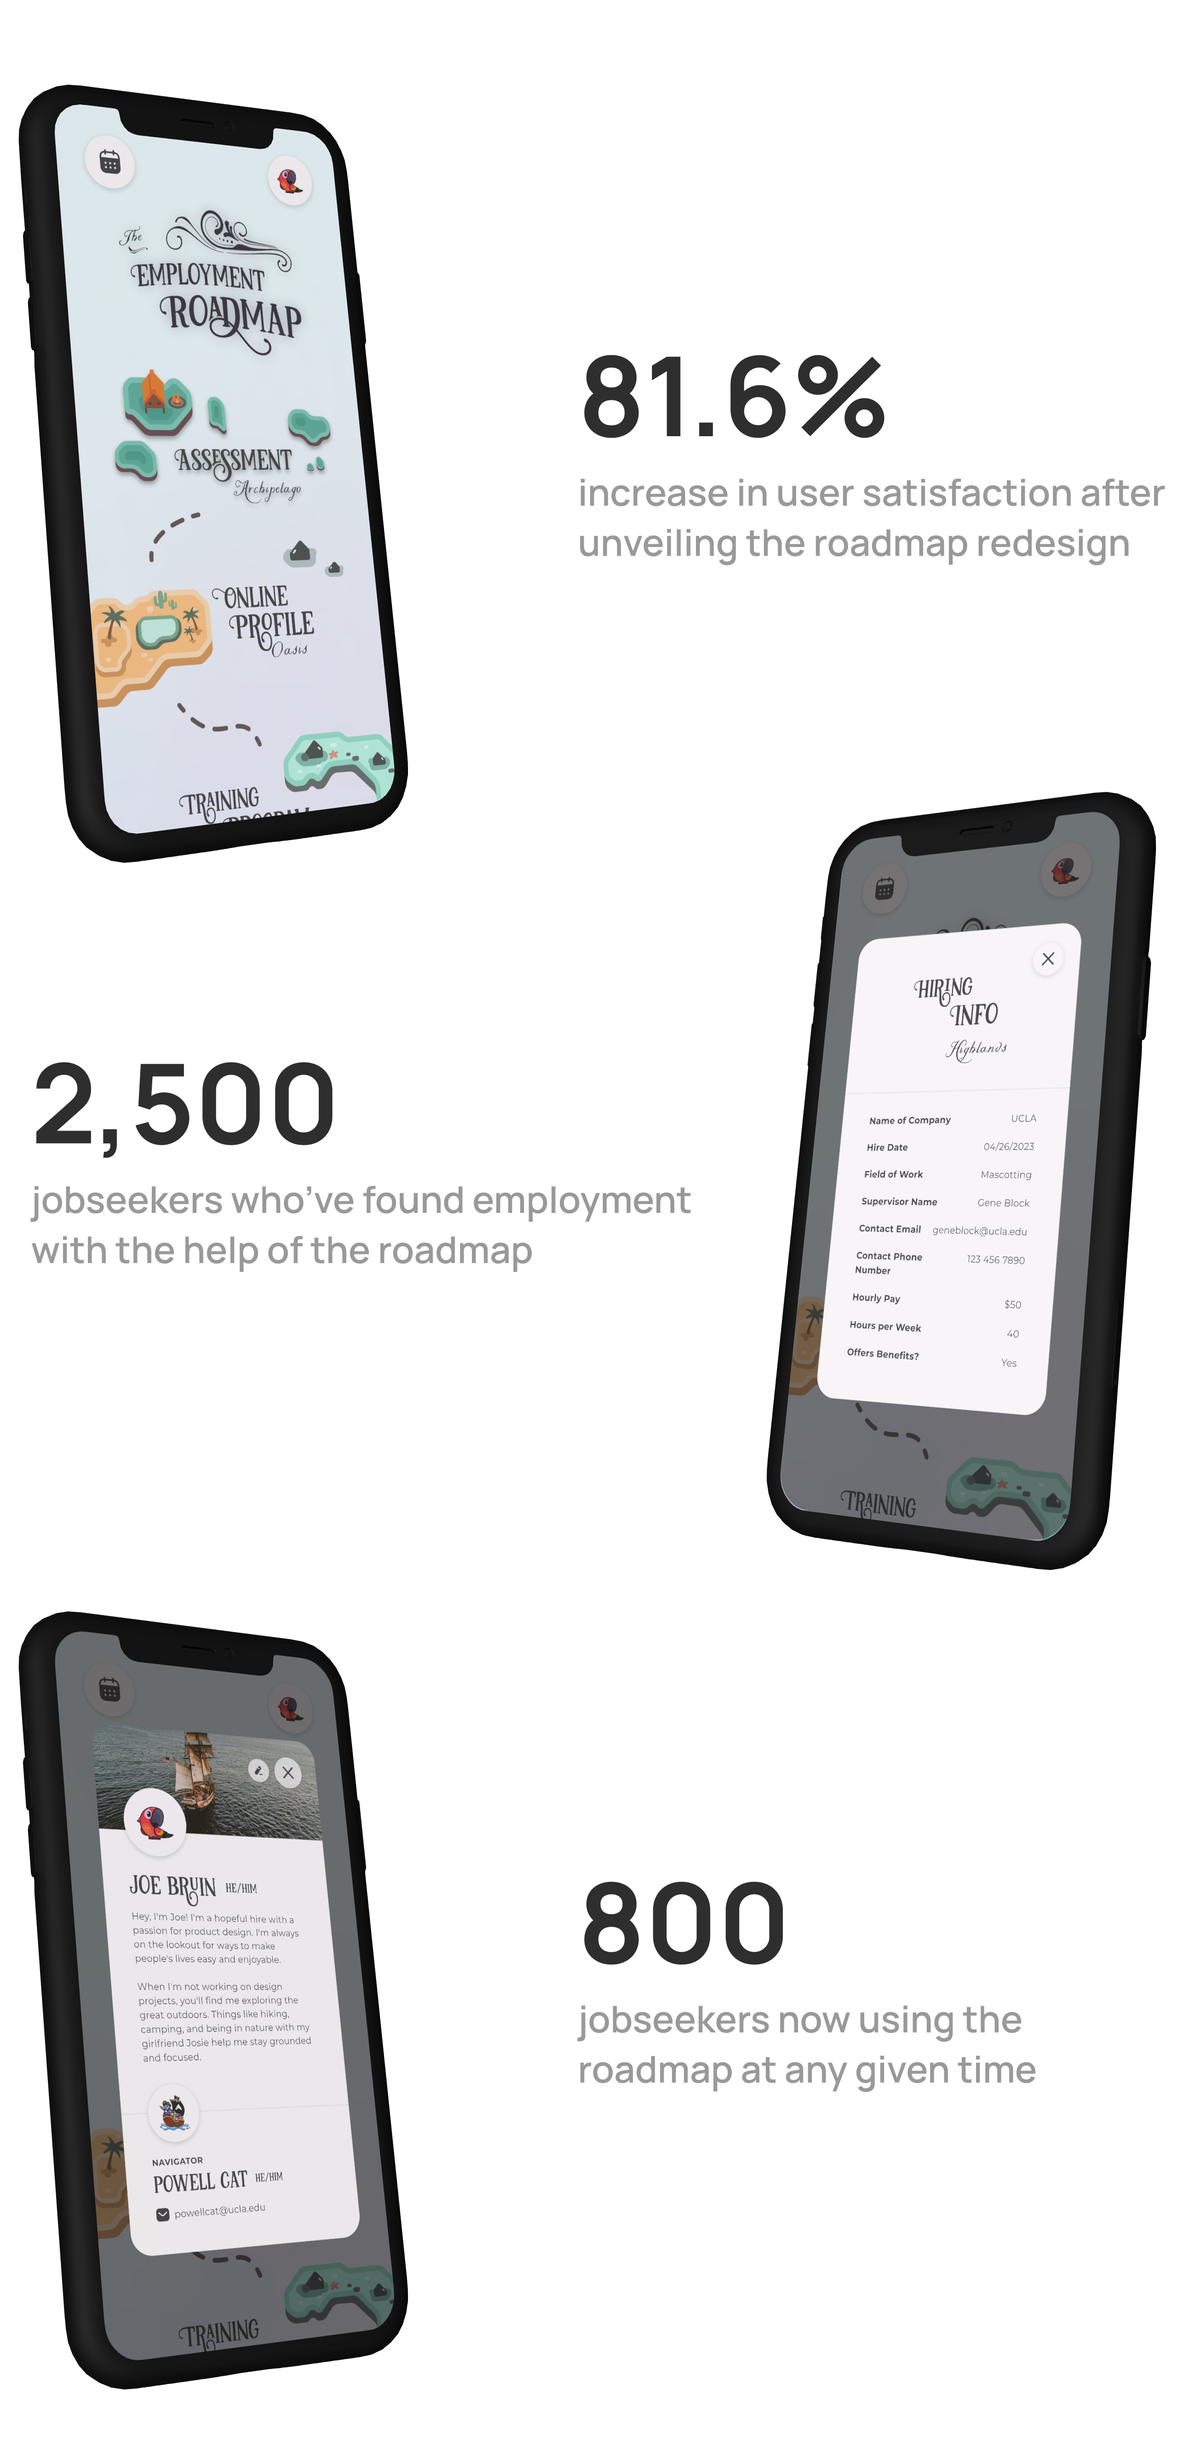
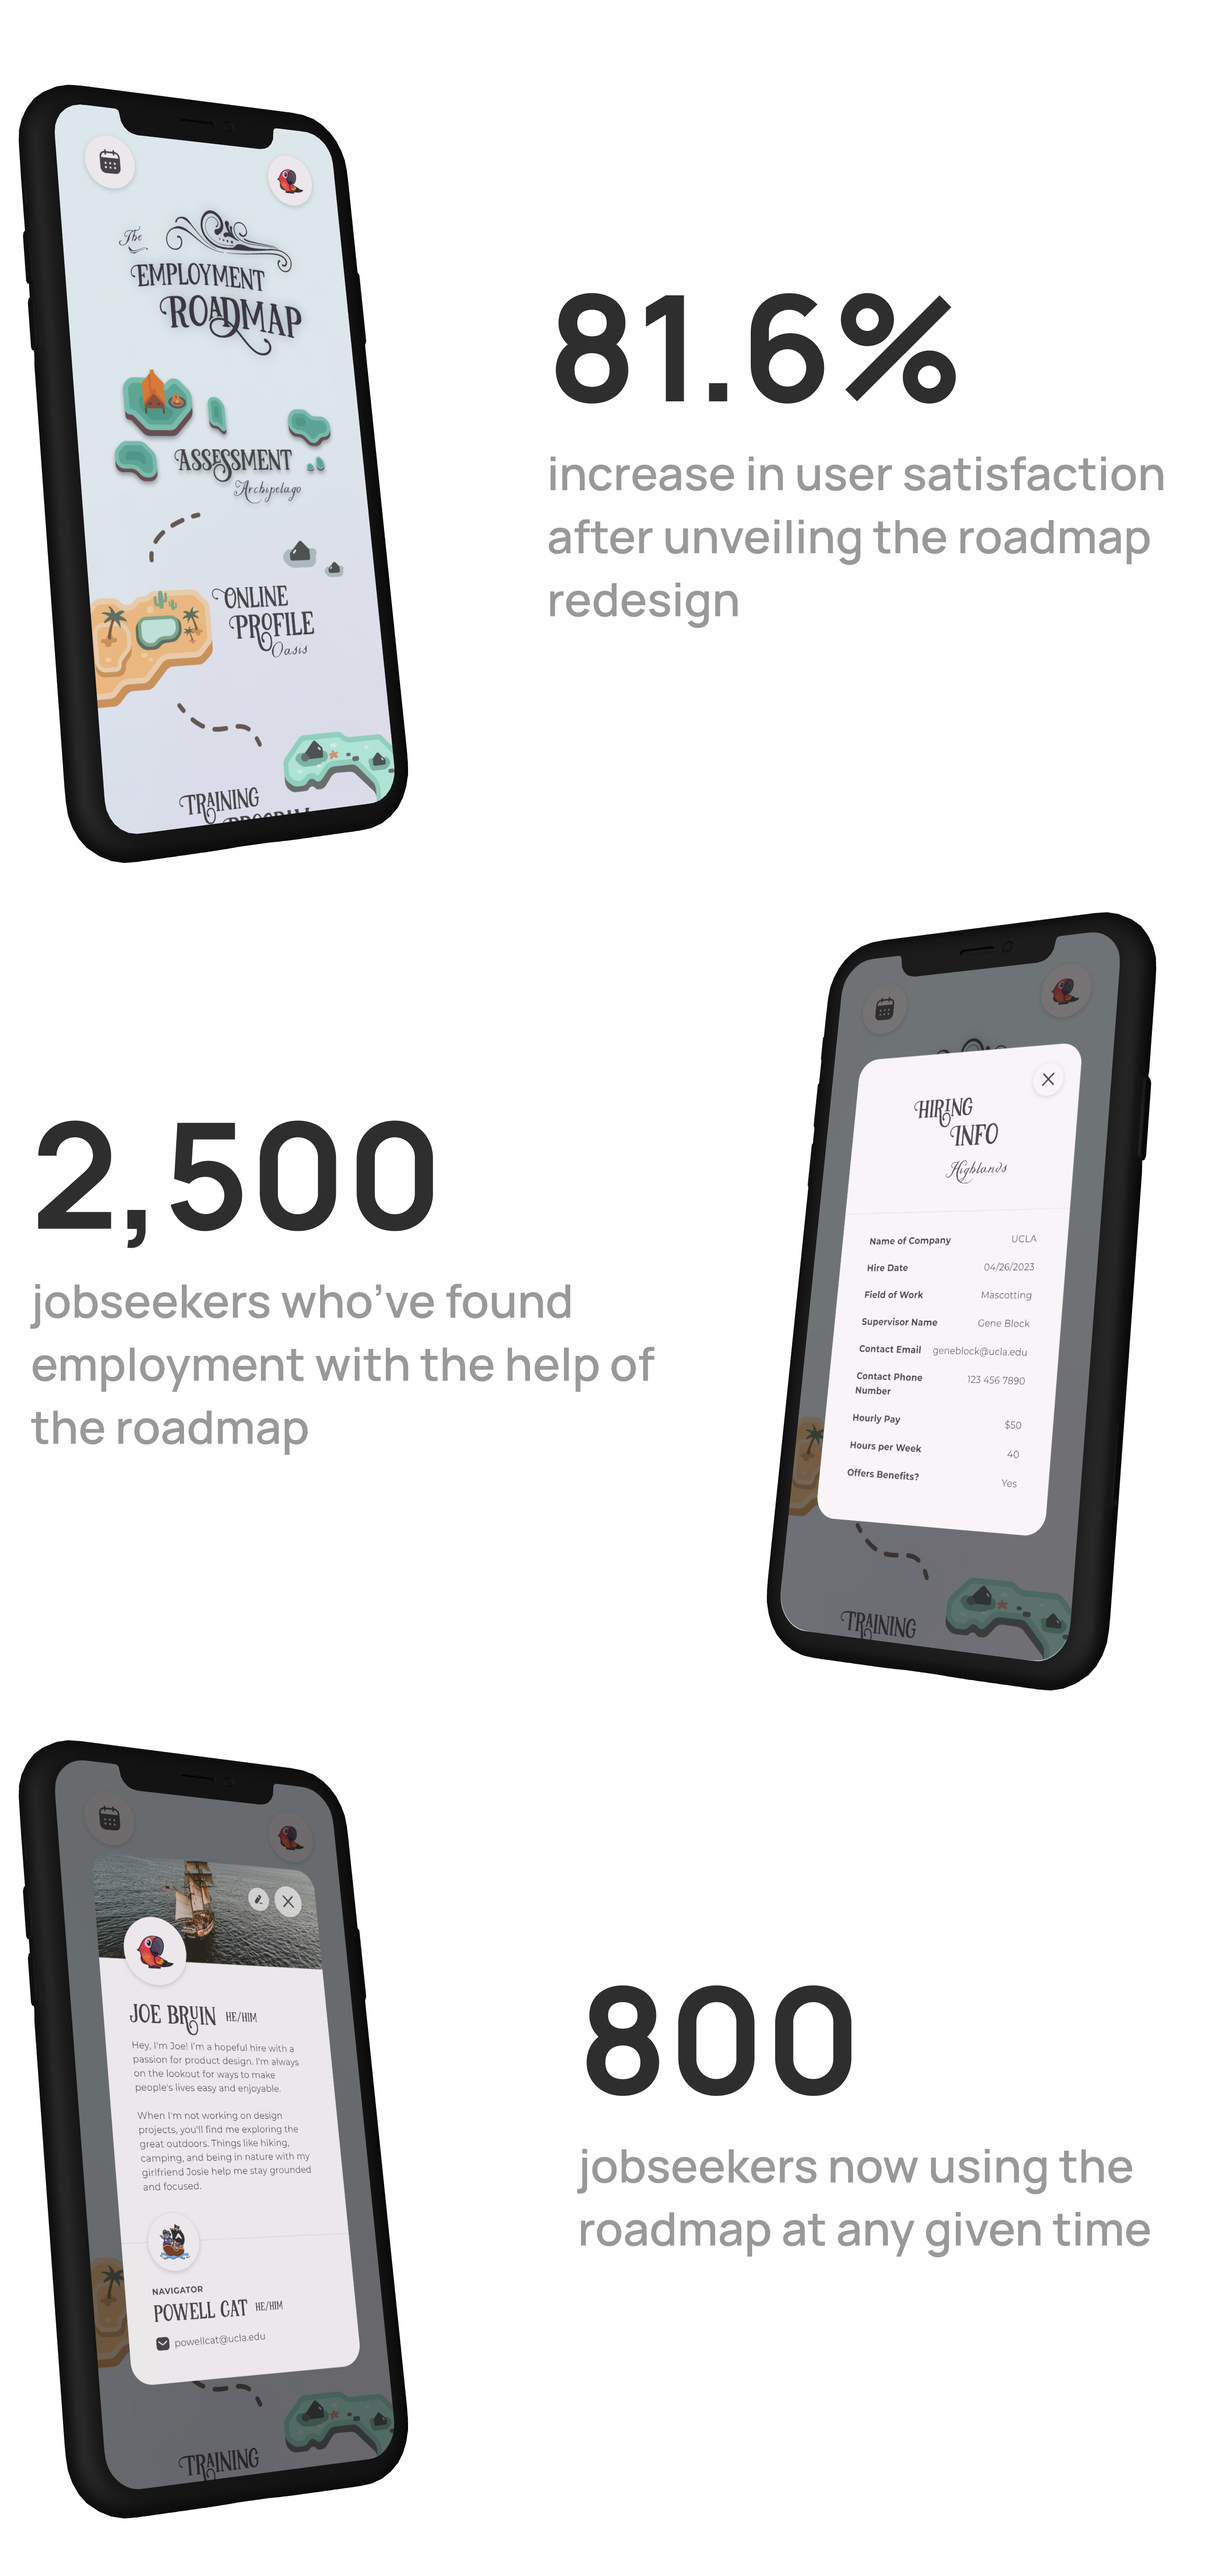
v2.4.1: more mobile friendliness, new thumbnail

diff --git a/work/transcanwork/index.html b/work/transcanwork/index.html
@@ -275,14 +275,20 @@
                 <p>The Menu button on the topleft, which served solely as an alternative way of navigating the islands, was only complicating things without providing any additional accessibility. After some discussion, my team and I opted to replace it with a link to an external calendar of TCW events, for easy jobseeker access.</p>
               </div>
 
-              <img src="usability-test-change1.png" class="subsubcontainer diagram small">
+              <img src="usability-test-change1.png" class="subsubcontainer diagram small extra-space">
+
+              <div class="extra-spacing"></div>
+              <div class="extra-spacing"></div>
+              <div class="extra-spacing"></div>
 
               <div class="subsubcontainer">
                 <h4><i class="fa-solid fa-mobile"></i>DESIGN FOR DEVICES OF ALL KINDS.</h4>
-                <p class="subsubcontainer">Even in our relatively small testing pool, we saw participants joining the call from tablets and mobile phones. Certain parts of our prototype weren’t equipped to handle these touch interactions, which only emphasized that we couldn’t bank on every user accessing TCW through a computer (an assumption we'd previously made).</p>
+                <p>Even in our relatively small testing pool, we saw participants joining the call from tablets and mobile phones. Certain parts of our prototype weren’t equipped to handle these touch interactions, which only emphasized that we couldn’t bank on every user accessing TCW through a computer (an assumption we'd previously made).</p>
               </div>
 
-              <img src="usability-test-change2.png" class="subsubcontainer diagram small">
+              <img src="usability-test-change2.png" class="subsubcontainer diagram small extra-space">
+
+              <div class="extra-spacing"></div>
 
               <img src="usability-test.png" class="subsubcontainer photo">
             </div>
@@ -299,31 +305,31 @@
   
           <div class="subcontainer">
             <h3>Employment Roadmap</h3>
-            <p class="subsubcontainer">After what feels like countless iterations: the final employment roadmap! To help guide jobseekers along their journey, the dotted line to the red X (in keeping with the pirate theme) provides a sense of direction. Islands will also start black-and-white, then fill in with color once their corresponding milestone is completed, so that progress feels more rewarding and interactive.</p>
+            <p>After what feels like countless iterations: the final employment roadmap! To help guide jobseekers along their journey, the dotted line to the red X (in keeping with the pirate theme) provides a sense of direction. Islands will also start black-and-white, then fill in with color once their corresponding milestone is completed, so that progress feels more rewarding and interactive.</p>
             <img src="employment-roadmap.png" class="subsubcontainer diagram">
           </div>
 
           <div class="subcontainer">
             <h3>Roadmap Details</h3>
-            <p class="subsubcontainer">Clicking or tapping on an island reveals a popup with details about the milestone it represents. They can include forms to fill out, checklists to mull over, resources to check out, and more! These popups allow jobseekers to easily see and access tasks without having to wait for their next navigator check-in. As requested by TCW, bits of pirate lingo are also sprinkled throughout!</p>
+            <p>Clicking or tapping on an island reveals a popup with details about the milestone it represents. They can include forms to fill out, checklists to mull over, resources to check out, and more! These popups allow jobseekers to easily see and access tasks without having to wait for their next navigator check-in. As requested by TCW, bits of pirate lingo are also sprinkled throughout!</p>
             <img src="roadmap-details.png" class="subsubcontainer diagram">
           </div>
 
           <div class="subcontainer">
             <h3>Profile Page</h3>
-            <p class="subsubcontainer">For the first time, TCW jobseekers can create profiles to show off their personality. Full profile customization, including avatar and banner image selection, provides jobseekers control over their job-hunting voyage. The profile page also acts as a way to easily reach your assigned navigator, if the need arises.</p>
+            <p>For the first time, TCW jobseekers can create profiles to show off their personality. Full profile customization, including avatar and banner image selection, provides jobseekers control over their job-hunting voyage. The profile page also acts as a way to easily reach your assigned navigator, if the need arises.</p>
             <img src="profile-page.png" class="subsubcontainer diagram small">
           </div>
 
           <div class="subcontainer">
             <h3>Responsive Design</h3>
-            <p class="subsubcontainer">Jobseekers can also access their roadmaps from the convenience of their phones! The roadmap responsively condenses into a linear, scrollable design to take full advantage of smaller screens while still providing the feeling of navigating a map.</p>
+            <p>Jobseekers can also access their roadmaps from the convenience of their phones! The roadmap responsively condenses into a linear, scrollable design to take full advantage of smaller screens while still providing the feeling of navigating a map.</p>
             <img src="responsive-design.png" class="subsubcontainer diagram">
           </div>
           
           <div class="subcontainer">
             <h3>Prototype Demo</h3>
-            <img src="prototype-demo.gif" class="subsubcontainer graphic">
+            <img src="prototype-demo.gif" class="subsubcontainer graphic tallish">
           </div>
 
           <div class="subcontainer">

diff --git a/css/case-study.css b/css/case-study.css
@@ -335,6 +335,10 @@ img {
   height: 40em;
 }
 
+.extra-space {
+  margin-bottom: 4em !important;
+}
+
 /************
  STRUCTURAL
  ************/
@@ -367,6 +371,10 @@ section .container {
 }
 
 .subcontainer .subsubcontainer:not(:last-child) {
+  margin-bottom: 1.5em;
+}
+
+.extra-spacing {
   margin-bottom: 1.5em;
 }
 
@@ -440,10 +448,6 @@ section .container {
 }
 
 @media screen and (max-width: 55em) {
-  .callout {
-    padding: 4em 0;
-  }
-
   .two-column {
     padding: 4em;
   }
@@ -474,18 +478,39 @@ section .container {
   }
 }
 
+@media screen and (max-width: 50em) {
+  .splash .specs {
+    flex-wrap: wrap;
+    grid-gap: 1.5rem;
+  }
+
+  .splash .specs p {
+    width: 40%;
+    margin: 0 auto;
+    white-space: nowrap;
+  }
+}
+
 @media screen and (max-width: 40em) {
   h1, 
   h2 {
-    font-size: 3.5em;
+    font-size: 3.5rem;
   }
 
   h3 {
-    font-size: 2em;
+    font-size: 2rem;
+  }
+
+  h4 {
+    font-size: 1rem;
   }
 
   .main-subtitle {
     font-size: 1.75em;
+  }
+
+  .splash .specs p {
+    font-size: 0.9rem;
   }
 
   .gallery {
@@ -509,25 +534,34 @@ section .container {
     width: 100%;
   }
 
-  .splash .specs {
-    flex-wrap: wrap;
-    grid-gap: 1.5rem;
-  }
-
-  .splash .specs p {
-    width: 40%;
-    margin: 0 auto;
-    white-space: nowrap;
-  }
-
   .close {
     bottom: 1.5em;
     right: 1.5em;
+  }
+
+  .small {
+    width: 100%;
+  }
+
+  .callout-text-large {
+    font-size: 1.3rem !important;
   }
 }
 
 @media screen and (max-height: 46em) {
   .splash {
     margin-top: 3.5em;
+  }
+
+  .callout {
+    padding: 2.75em 0;
+  }
+
+  .fa-quote-left {
+    margin-bottom: 0.75em;
+  }
+
+  .fa-quote-right {
+    margin-top: 0.75em;
   }
 }

diff --git a/index.html b/index.html
@@ -5,7 +5,7 @@
     <title>Jeff Lu</title>
     <meta name="title" property="og:title" content="Jeff Lu">
     <meta name="description" property="og:description" content="Los Angeles based UI/UX designer dedicated to creating visually pleasing products that spark joy!">
-    <meta name="image" property="og:image" content="https://i.ibb.co/XF5ZqhF/Screenshot-2023-06-30-at-10-11-50-AM.png">
+    <meta name="image" property="og:image" content="https://i.ibb.co/Q6rbLTH/thumbnail.png">
     <meta charset="utf-8">
     <meta name="viewport" content="width=device-width, initial-scale=1">
     <meta name="theme-color" content="#fafcfc">
